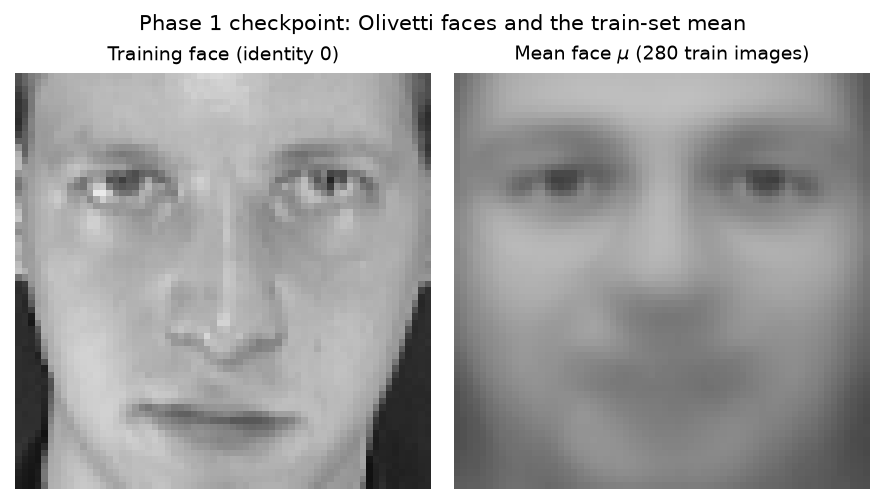
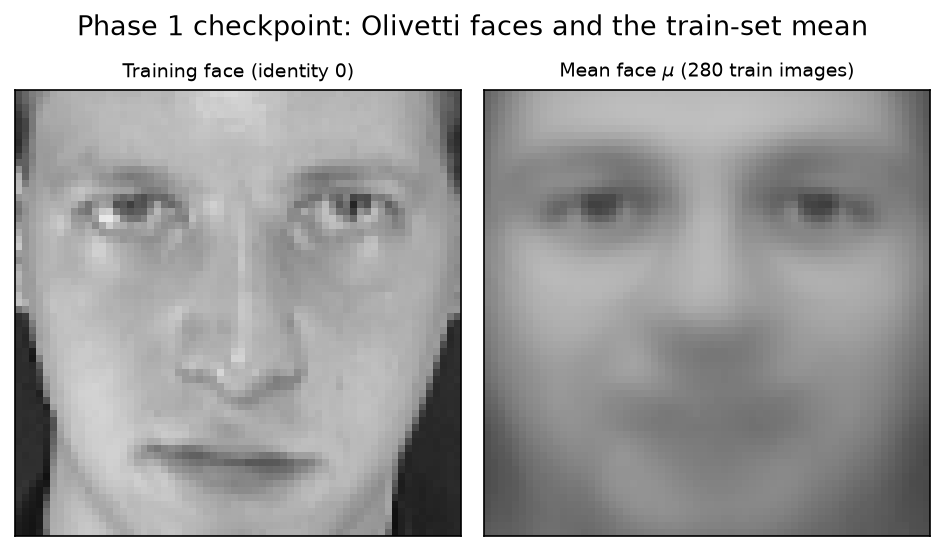
Make the two checkpoint figures reproducible
The mean-face and eigenface figures ship in the application and the
covariance cross-check they come with is the strongest correctness evidence
in the README, but both were produced by one-off scripts, so a fresh clone
could rebuild neither. Add a shared figure helper (grids and curves, which
the reconstruction and robustness experiments need anyway) plus a script
that re-renders both figures and prints the cross-check: max |C u - lambda u|
= 1.2524703e-15 over the top 10, orthogonality 5.4237864e-14 at k=279,
variance explained 24.5/66.3/85.9/97.9 % at k=1/10/40/160, all unchanged.
The mean-face panels now use the dataset's own [0,1] scale rather than
autoscaling per panel, which was overstating the mean face's contrast.

diff --git a/experiments/checkpoint_figures.py b/experiments/checkpoint_figures.py
@@ -1,0 +1,128 @@
+"""Regenerate the two human checkpoint figures and print the math cross-check.
+
+Not an experiment (no `exp_` prefix, no row in results/results.md): the two
+checkpoints in `.agents/status.md` are human-judged, and this script exists
+so the figures that ship in the application -- and the correctness numbers
+README.md quotes -- can be rebuilt from a fresh clone instead of living only
+in a one-off session.
+
+Run from the repository root:
+
+    python experiments/checkpoint_figures.py
+
+Checkpoint 1 (Phase 1): the mean face must look like a smooth, blurry
+averaged face, not noise and not a blank frame.
+Checkpoint 2 (Phase 2, CRITICAL): the top eigenfaces must look like ghostly
+faces. If they look like noise, stop and work through
+.claude/skills/debug-solver/SKILL.md -- the bug is in centering or in the
+`u = X~^T v` back-projection, and nothing downstream is worth running.
+"""
+
+import numpy as np
+
+import figures
+from src import data
+from src.model import EigenfaceModel
+
+N_EIGENFACES = 10
+K_FULL = 279  # n_train - 1: centering costs one degree of freedom
+VARIANCE_REPORT_KS = (1, 10, 40, 160)
+
+
+def load_train():
+    images, labels = data.load_olivetti()
+    (train_images, y_train), _ = data.stratified_split(images, labels)
+    return data.flatten(train_images), y_train
+
+
+def render_mean_face(X_train, y_train):
+    _, mean = data.center(X_train)
+    first = int(np.flatnonzero(y_train == y_train[0])[0])
+    fig = figures.image_grid(
+        np.stack([X_train[first], mean]),
+        titles=[
+            f"Training face (identity {y_train[first]})",
+            f"Mean face $\\mu$ ({len(X_train)} train images)",
+        ],
+        ncols=2,
+        suptitle="Phase 1 checkpoint: Olivetti faces and the train-set mean",
+        panel_size=3.2,
+        # Real face images on the dataset's own fixed scale, not autoscaled
+        # per panel: the mean face genuinely is low-contrast, and stretching
+        # each panel to its own min/max would overstate that contrast and
+        # make the two panels incomparable.
+        normalize=data.PIXEL_RANGE,
+    )
+    return figures.save(fig, "mean_face.png")
+
+
+def render_eigenfaces(model, total_variance, n_train):
+    """Per-image grey scaling here is deliberate -- see figures.image_grid."""
+    shares = 100.0 * model.eigenvalues_[:N_EIGENFACES] / total_variance
+    fig = figures.image_grid(
+        model.components_[:N_EIGENFACES],
+        titles=[f"#{i + 1}  ({share:.1f}% var)" for i, share in enumerate(shares)],
+        ncols=5,
+        suptitle=(
+            f"Top {N_EIGENFACES} eigenfaces (snapshot trick, k={K_FULL} basis, "
+            f"{n_train} training images)"
+        ),
+        panel_size=3.0,
+    )
+    return figures.save(fig, "eigenfaces_top10.png")
+
+
+def cross_check(X_train, model, total_variance):
+    """Verify the snapshot components against the matrix they stand in for.
+
+    The whole point of the snapshot trick is that decomposing the 280x280
+    Gram matrix gives the eigenvectors of the 4096x4096 pixel covariance
+    matrix. That is only worth claiming if it has been checked against the
+    real thing, so this builds C explicitly -- the one place in the project
+    where paying for the big matrix is justified.
+    """
+    Xc, _ = data.center(X_train)
+    C = (Xc.T @ Xc) / len(X_train)
+
+    residuals = [
+        np.max(np.abs(C @ u - lam * u))
+        for u, lam in zip(
+            model.components_[:N_EIGENFACES], model.eigenvalues_[:N_EIGENFACES]
+        )
+    ]
+    eig_err = float(np.max(residuals))
+
+    U = model.components_
+    orth_err = float(np.max(np.abs(U @ U.T - np.eye(len(U)))))
+
+    print(f"components fitted:            k={U.shape[0]} of n_train={len(X_train)}")
+    print(f"max |C u - lambda u| (top {N_EIGENFACES}):  {eig_err:.7e}")
+    print(f"max |U U^T - I| (k={U.shape[0]}):       {orth_err:.7e}")
+    cumulative = np.cumsum(model.eigenvalues_) / total_variance
+    shares = ", ".join(
+        f"k={k}: {100.0 * cumulative[k - 1]:.1f}%" for k in VARIANCE_REPORT_KS
+    )
+    print(f"variance explained:           {shares}")
+    return eig_err, orth_err
+
+
+def main():
+    X_train, y_train = load_train()
+    model = EigenfaceModel().fit(X_train, k=K_FULL)
+    total_variance = float(model.eigenvalues_.sum())
+
+    mean_path = render_mean_face(X_train, y_train)
+    eigen_path = render_eigenfaces(model, total_variance, len(X_train))
+    cross_check(X_train, model, total_variance)
+
+    print(f"wrote {mean_path.relative_to(figures.FIGURES_DIR.parent)}")
+    print(f"wrote {eigen_path.relative_to(figures.FIGURES_DIR.parent)}")
+    print(
+        "\nBoth figures are human-judged checkpoints: open them and confirm a\n"
+        "smooth averaged mean face and ten ghostly faces before trusting\n"
+        "anything downstream."
+    )
+
+
+if __name__ == "__main__":
+    main()

diff --git a/experiments/figures.py b/experiments/figures.py
@@ -1,0 +1,153 @@
+"""Shared figure rendering for the experiment scripts.
+
+Not an experiment itself -- the `exp_*.py` prefix marks those. This module
+holds the grid/imshow/plot boilerplate that more than one experiment needs
+(E3's reconstruction grid, E4's per-axis curves, and the two checkpoint
+figures regenerated by `checkpoint_figures.py`), so it gets written once
+instead of three times.
+
+Every figure is written under `figures/` resolved from this file's location,
+so scripts land their output in the right place regardless of the working
+directory they are run from.
+"""
+
+from pathlib import Path
+
+import matplotlib
+
+matplotlib.use("Agg")  # scripts run headless; never pop a window
+
+import matplotlib.pyplot as plt  # noqa: E402  (must follow the backend call)
+import numpy as np  # noqa: E402
+
+from src.data import IMAGE_SHAPE  # noqa: E402
+
+FIGURES_DIR = Path(__file__).resolve().parent.parent / "figures"
+
+
+def as_images(X):
+    """(n, 4096) flat vectors -> (n, 64, 64) images. Passes images through."""
+    X = np.asarray(X, dtype=np.float64)
+    if X.ndim == 1:
+        X = X[None, :]
+    if X.ndim == 3:
+        return X
+    return X.reshape(X.shape[0], *IMAGE_SHAPE)
+
+
+def image_grid(
+    images,
+    titles=None,
+    ncols=5,
+    suptitle=None,
+    row_labels=None,
+    normalize="per_image",
+    cmap="gray",
+    panel_size=1.6,
+):
+    """Lay images out in a grid of imshow panels and return the figure.
+
+    `normalize` controls the grey scale:
+
+    - ``"per_image"`` -- each panel autoscales to its own min/max. Correct for
+      eigenfaces, which are signed directions with no natural absolute scale;
+      without it the low-variance ones render nearly flat grey.
+    - ``"shared"`` -- one scale across every panel, so panels are comparable
+      to each other. Correct for a reconstruction grid, where the point is
+      that detail returns as k grows.
+    - a ``(vmin, vmax)`` tuple -- a fixed scale, e.g. `data.PIXEL_RANGE`.
+
+    `row_labels`, if given, names each row down the left-hand side (E3 uses
+    it for the k of each row).
+    """
+    images = as_images(images)
+    n = len(images)
+    ncols = max(1, min(ncols, n))
+    nrows = int(np.ceil(n / ncols))
+
+    if normalize == "shared":
+        vmin, vmax = float(images.min()), float(images.max())
+    elif normalize == "per_image":
+        vmin = vmax = None
+    else:
+        vmin, vmax = (float(v) for v in normalize)
+
+    fig, axes = plt.subplots(
+        nrows,
+        ncols,
+        figsize=(panel_size * ncols, panel_size * nrows + (0.6 if suptitle else 0.2)),
+        squeeze=False,
+    )
+
+    for i, ax in enumerate(axes.ravel()):
+        ax.set_xticks([])
+        ax.set_yticks([])
+        if i >= n:
+            ax.set_axis_off()
+            continue
+        ax.imshow(images[i], cmap=cmap, vmin=vmin, vmax=vmax)
+        if titles is not None and i < len(titles) and titles[i] is not None:
+            ax.set_title(titles[i], fontsize=9)
+
+    if row_labels is not None:
+        for row, label in enumerate(row_labels):
+            if row < nrows:
+                axes[row][0].set_ylabel(label, fontsize=9)
+                axes[row][0].set_axis_on()
+
+    if suptitle:
+        fig.suptitle(suptitle, fontsize=13)
+    fig.tight_layout()
+    return fig
+
+
+def curves(
+    x,
+    series,
+    xlabel,
+    ylabel,
+    suptitle=None,
+    xscale=None,
+    ylim=None,
+    marker="o",
+    baseline=None,
+    figsize=(7.0, 4.5),
+):
+    """One or more y-series against a shared x axis; returns the figure.
+
+    `series` maps a legend label to a sequence of y values. `baseline`, if
+    given, maps a label to a horizontal reference line -- E2 draws E1's
+    raw-pixel accuracy that way, since the whole claim is whether the curve
+    reaches it.
+    """
+    fig, ax = plt.subplots(figsize=figsize)
+
+    for label, y in series.items():
+        ax.plot(x, y, marker=marker, label=label)
+
+    if baseline:
+        for label, value in baseline.items():
+            ax.axhline(value, linestyle="--", linewidth=1.0, color="grey", label=label)
+
+    ax.set_xlabel(xlabel)
+    ax.set_ylabel(ylabel)
+    if xscale:
+        ax.set_xscale(xscale)
+    if ylim:
+        ax.set_ylim(*ylim)
+    ax.grid(alpha=0.3)
+    if len(series) > 1 or baseline:
+        ax.legend()
+    if suptitle:
+        ax.set_title(suptitle)
+    fig.tight_layout()
+    return fig
+
+
+def save(fig, filename):
+    """Write `fig` into figures/ and return the path. Closes the figure."""
+    FIGURES_DIR.mkdir(parents=True, exist_ok=True)
+    path = FIGURES_DIR / filename
+    fig.savefig(path, dpi=150, bbox_inches="tight")
+    plt.close(fig)
+    return path
